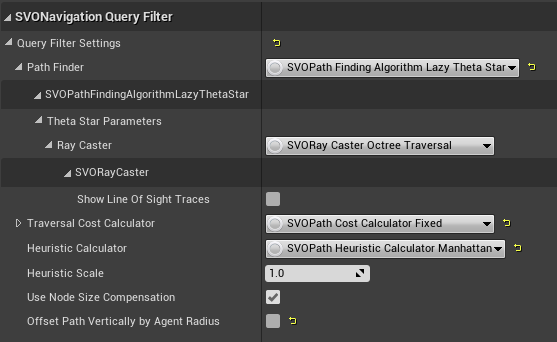
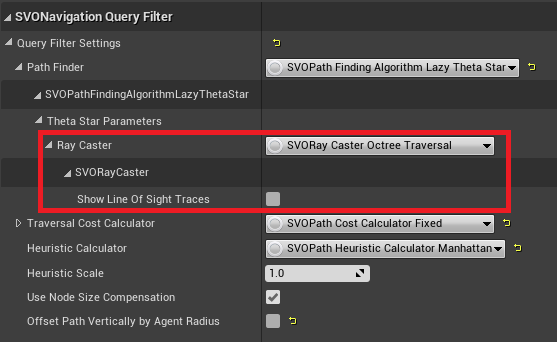
Updated documentation

Changed region(s): [[0.061, 0.3801, 0.9156, 0.6433]]

diff --git a/README.md b/README.md
@@ -103,6 +103,28 @@ To move the actor, you just need to use the `Move To` default node, and not forg
 
 You can visualize the paths used by your flying agents by checking `Enable Drawing` on the SVO navigation data actor, and checking `Debug Draw Active Paths`.
 
+# Module Settings
+
+You can access the module settings by opening the `Project Settings`, heading to the `Engine` section on the left, and clicking on the `SVONavigation System` item.
+
+![Module Settings](Docs/modulesettings.png)
+
+The option `Navigation Auto Update Enabled` allows you to auto-rebuild the navigation data when you update the scene.
+
+The option `Default RayCaster Class` allows you to define how you want the module to perform line of sight checks in the world.
+
+Line of sight checks are performed in 2 occasions:
+
+1. Before computing a path, we check if there's a LoS between the start and end locations. If there is no obstacle, the resulting navigation path will be a straight line between the 2 points.
+2. Some algorithms used by the pathfinding require a LoS check to return a shorter path. See below for more explanations.
+
+At the moment, you can choose between 3 raycast options:
+
+* Octree Traversal : this is a numeric algorithm based on the academic paper [An Efficient Parametric Algorithm for Octree Traversal](http://wscg.zcu.cz/wscg2000/Papers_2000/X31.pdf). This is the fastest of all 3 functions, and is the default.
+
+* Physics ray / sphere casts : this function uses the physics engine built-in RayCast / Sphere cast functions. It's less precise than the octree traversal function, but since it was implemented first, it was kept in case it's useful to anyone.
+
+
 # Pathfinding options
 
 As explained before, the navigation query filter allows you to define the pathfinding algorithm and options to use for your flying actor.
@@ -118,14 +140,9 @@ The first option is the path finder class. You can choose between 3 options:
 * [Lazy Theta*](http://idm-lab.org/bib/abstracts/papers/aaai10b.pdf): this is the default algorithm of the plug-in. It's a variation of Theta* which produces slightly less optimal paths, but is much less expensive as it generates much less line-of-sight checks.
 ![Lazy Theta*](Docs/navigationqueryfilter_lazythetastar.png)
 
-Theta* and Lazy Theta* both use Line of sight checks to shorten the path. The plug-in proposes 3 different methods to compute those LoS.
-
-* Octree Traversal : this is a numeric algorithm based on the academic paper [An Efficient Parametric Algorithm for Octree Traversal](http://wscg.zcu.cz/wscg2000/Papers_2000/X31.pdf). This is the fastest of all 3 functions, and is the default.
+Theta* and Lazy Theta* both use Line of sight checks to shorten the path. As explained before, you can choose between 3 modes: Octree Traversal, physics ray cast, physics sphere cast.
 
 ![Octree Traversal](Docs/navigationqueryfilter_thetastar_octreetraversal.png)
-
-* Physics ray / sphere casts : this function uses the physics engine built-in RayCast / Sphere cast functions. It's less precise than the octree traversal function, but since it was implemented first, it was kept in case it's useful to anyone.
-
 ![Ray Cast](Docs/navigationqueryfilter_thetastar_raycast_ray.png)
 ![Sphere Cast](Docs/navigationqueryfilter_thetastar_raycast_sphere.png)
 
